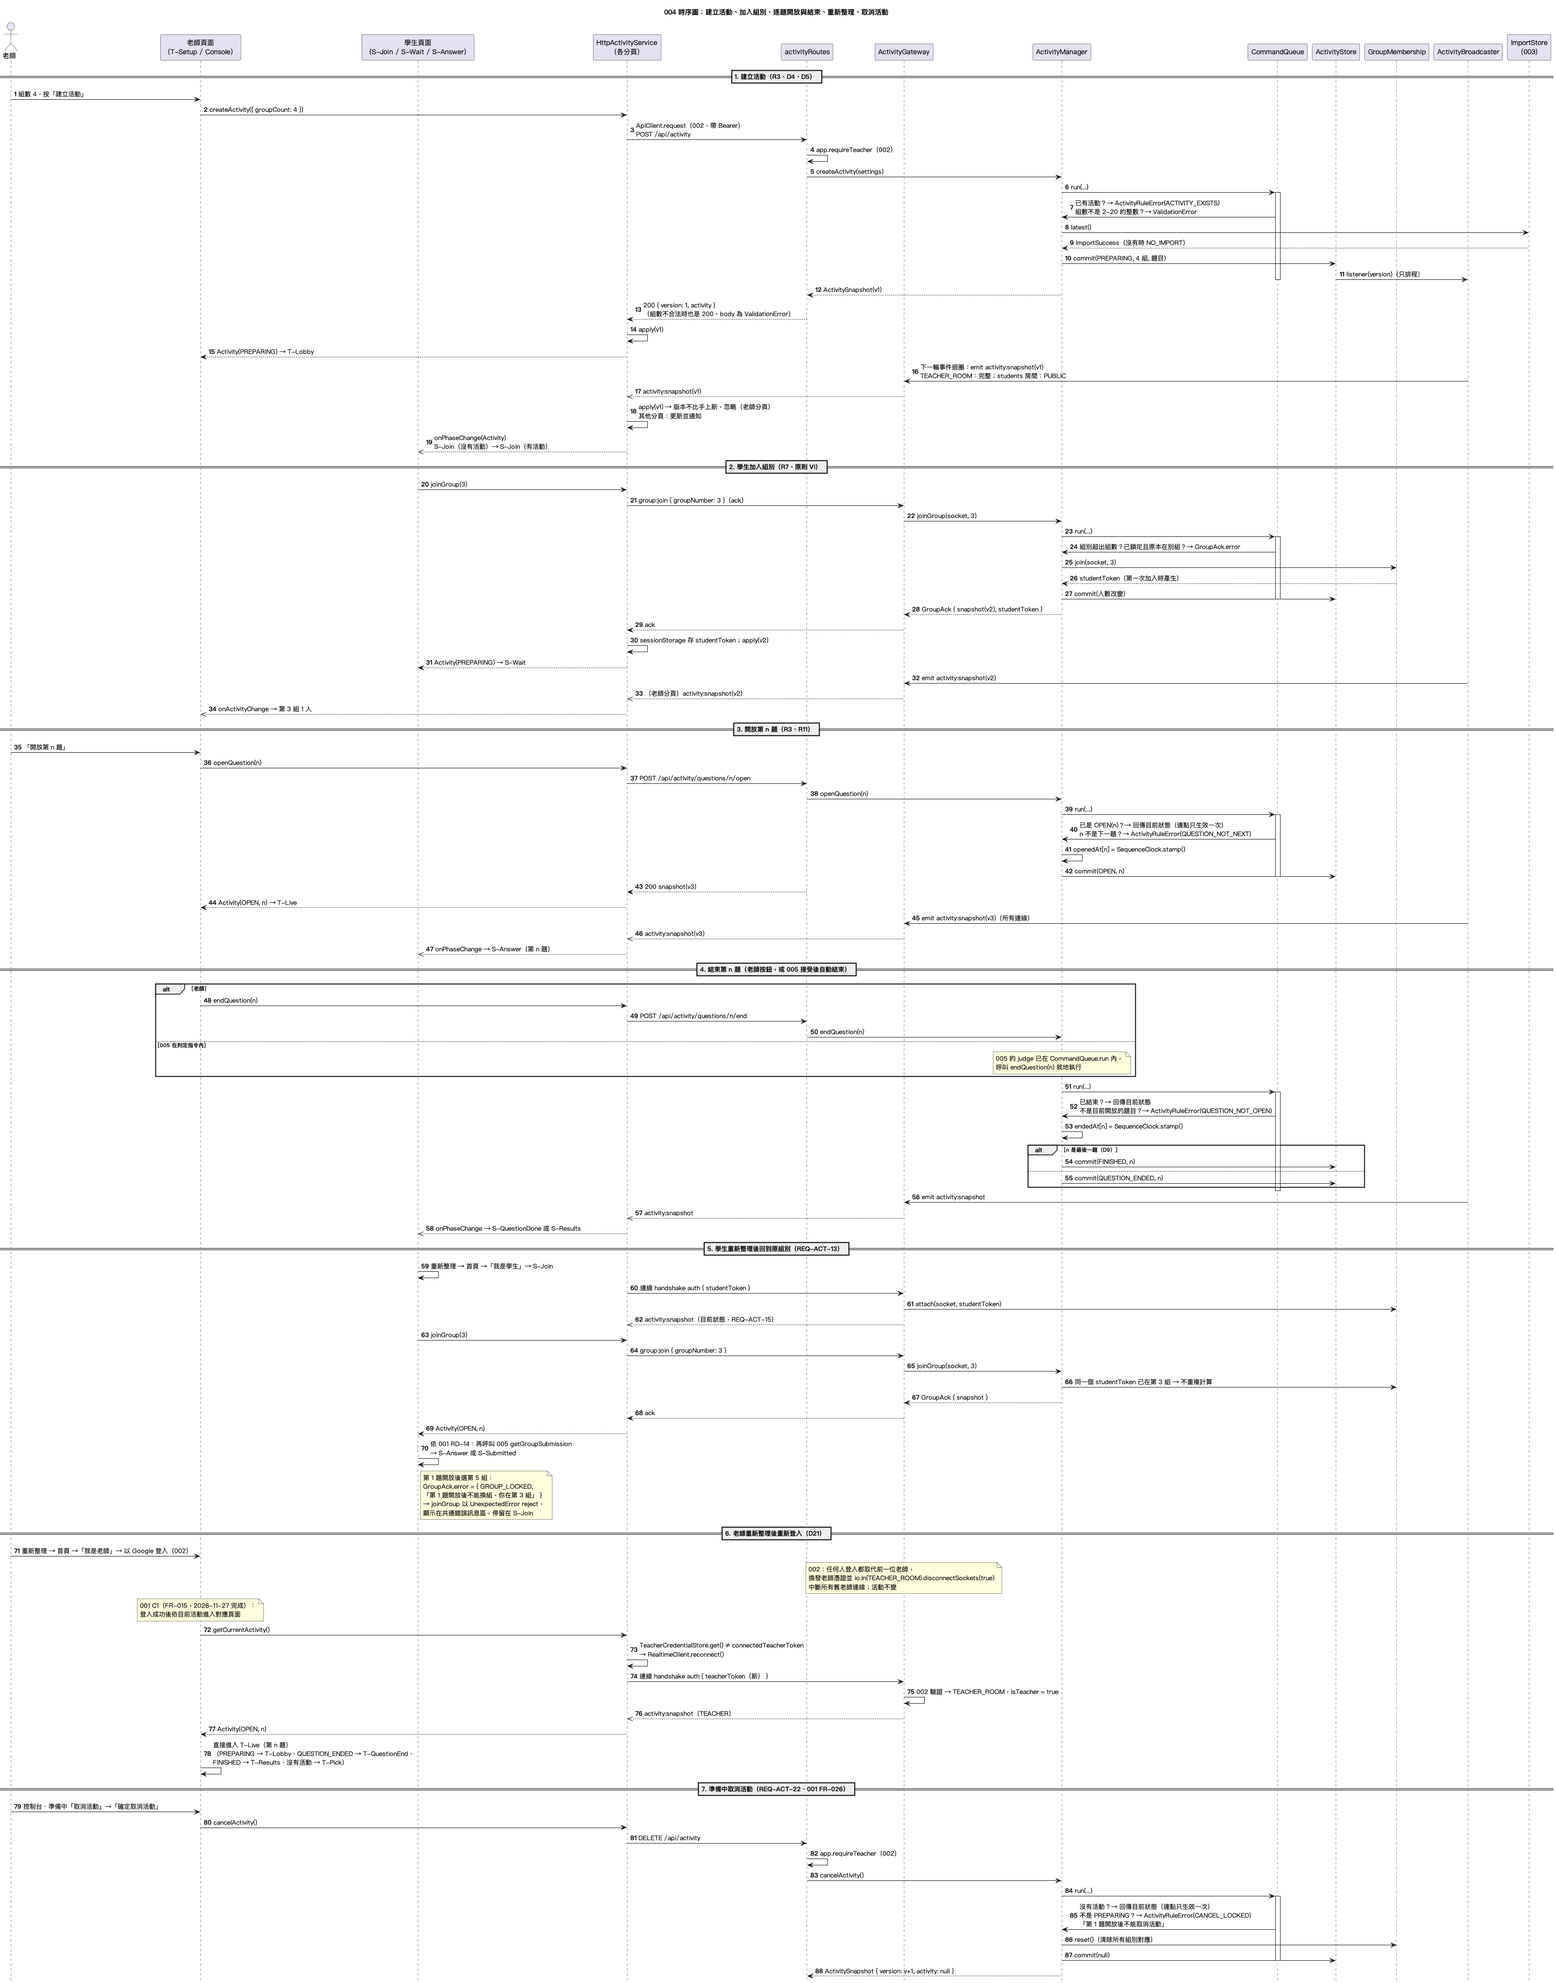
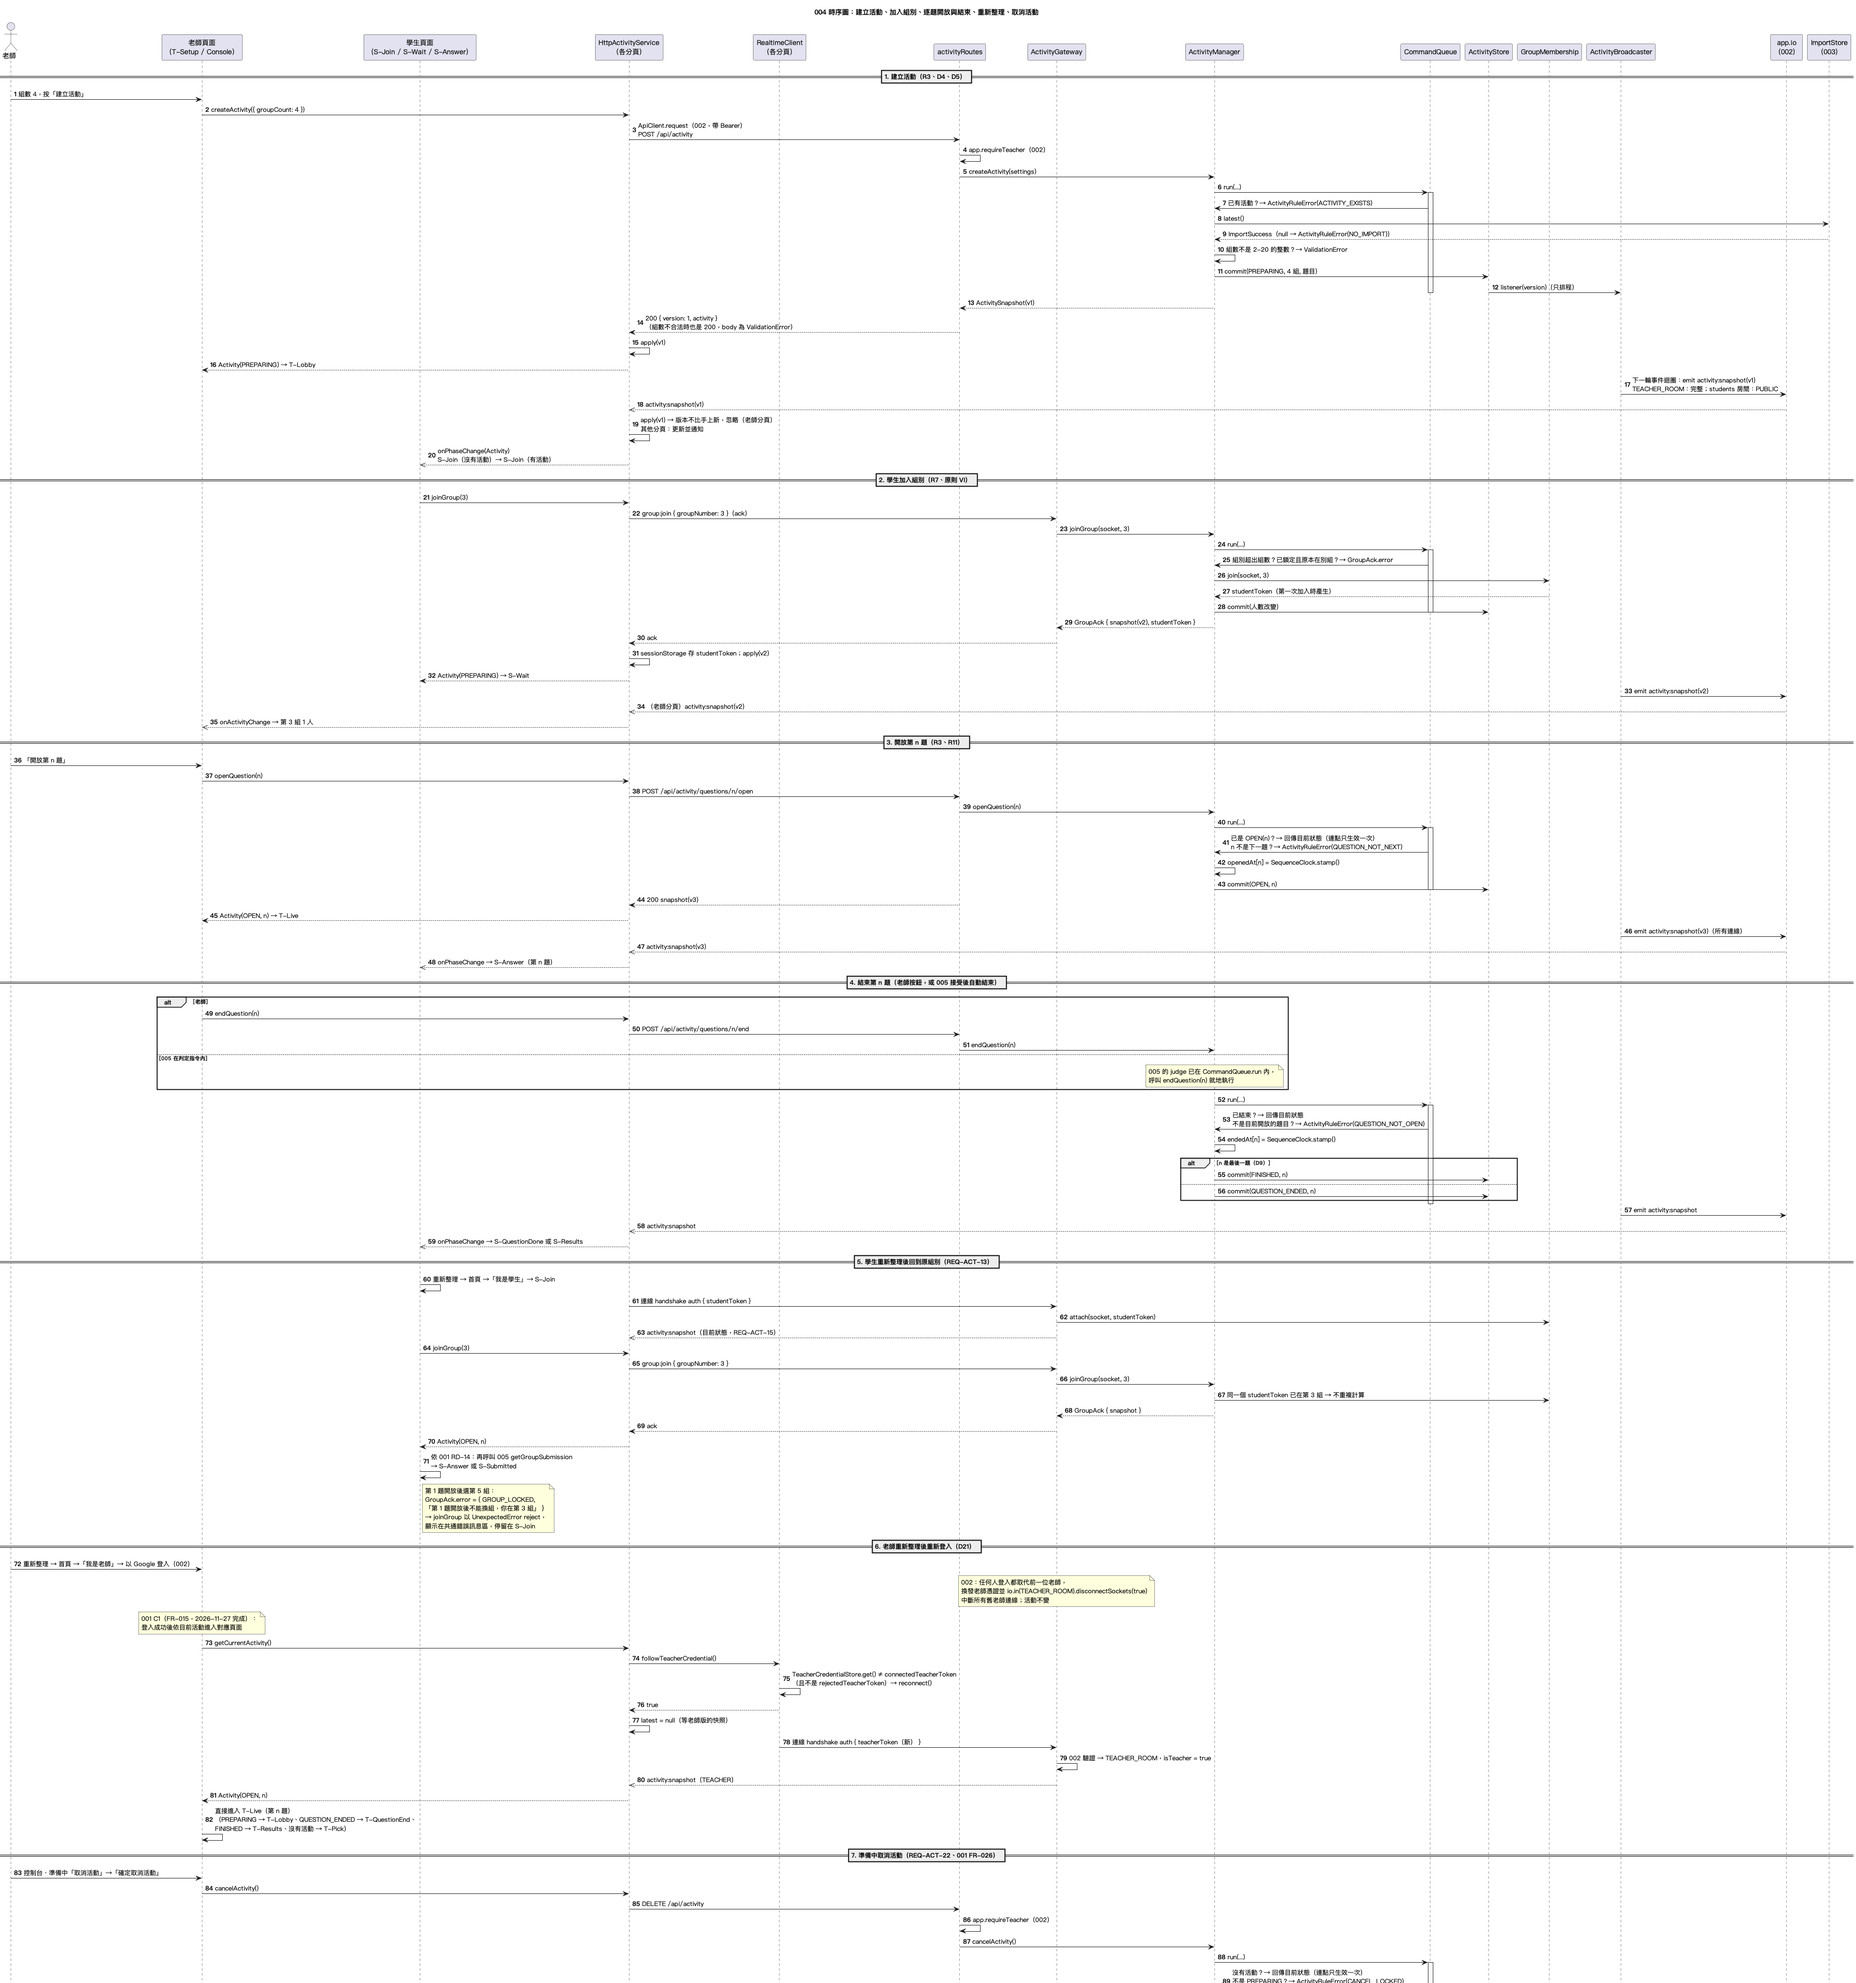
spec(004): align diagrams with the realtime client and push path
The code reached the diagrams' design by a different path: snapshots go
out through app.io, RealtimeClient decides when to reconnect as the
teacher, and createActivity checks the import before the group count.
The blueprint now matches what was built and what data-model already said.

Refs: T052, REQ-ACT-01, REQ-ACT-16, REQ-ACT-21

diff --git a/specs/004-buzzer-session/data-model.md b/specs/004-buzzer-session/data-model.md
@@ -182,6 +182,7 @@ n 不是 1..groupCount 的整數       → error NO_SUCH_GROUP「沒有第 n 組
 | `-latest: ActivitySnapshot \| null` | 手上最新的快照；連線成功時清為 `null` |
 | `-lastPhaseKey: string \| null` | 上一次 `onPhaseChange` 通知時的 `phase:currentQuestion:groupCount`；通知 `null`（活動被取消）後為 `null`；重新連線時不清除 |
 | `-apply(snapshot): boolean` | `latest` 為 `null` 或 `snapshot.version > latest.version` 時採用並通知，回傳 true；否則忽略 |
+| `-followTeacherCredential(): void` | `getCurrentActivity` 與五個老師指令開頭呼叫 `RealtimeClient.followTeacherCredential()`；回傳 true（已重新連線）時把 `latest` 清為 `null`，等老師版的快照 |
 
 十個方法的行為見 [contracts/activity-service.md](./contracts/activity-service.md)。
 
@@ -190,9 +191,10 @@ n 不是 1..groupCount 的整數       → error NO_SUCH_GROUP「沒有第 n 組
 | 成員 | 說明 |
 | --- | --- |
 | `-socket` | `io({ transports: ["websocket"], auth: cb => cb({ teacherToken, studentToken }) })`；`auth` 每次連線時重新讀取：`teacherToken` 取自 002 的 `TeacherCredentialStore.get()`（等於 `rejectedTeacherToken` 時不帶），`studentToken` 取自 `sessionStorage` |
-| `-connectedTeacherToken` | 目前連線 handshake 時用的老師憑證；與 002 存放的不同時要 `reconnect()`（[activity-service.md](./contracts/activity-service.md)） |
+| `-connectedTeacherToken` | 目前連線 handshake 時用的老師憑證；與 002 存放的不同時 `followTeacherCredential()` 會 `reconnect()`（[activity-service.md](./contracts/activity-service.md)） |
 | `-rejectedTeacherToken` | 被 002 以 `UNAUTHORIZED` 拒絕的老師憑證；之後的 handshake 不再帶它，`TeacherCredentialStore.get()` 等於它時也不觸發重新連線（002 #18 之後作廢的憑證會留在本分頁，research RA-07） |
 | `+connect()`、`+reconnect()` | 建立連線；以當下的憑證重新 handshake。`disconnect` 原因為 `io server disconnect`（002 換發老師憑證時中斷舊連線）時自動 `reconnect()` |
+| `+followTeacherCredential(): boolean` | `TeacherCredentialStore.get()`（等於 `rejectedTeacherToken` 時視為沒有）與 `connectedTeacherToken` 不同、或還沒連線時 `reconnect()` 並回傳 true；相同時回傳 false |
 | `+on<T>(event, listener)`、`+onConnect(listener)` | 訂閱任一伺服器事件（004 用 `activity:snapshot`，005、006 註冊自己的事件）與連線成功；都回傳 `Unsubscribe` |
 | `+emitWithAck<T>(event, payload)` | 送出事件並等 ack（004 用 `group:join`、`group:leave`，005 用自己的事件）；5 秒逾時以 `UnexpectedError`「連不上伺服器，請確認伺服器已啟動」 reject |
 | `+studentToken()`、`+setStudentToken(token)` | 讀寫 `sessionStorage` 的 `quizBuzzer.studentToken` |
